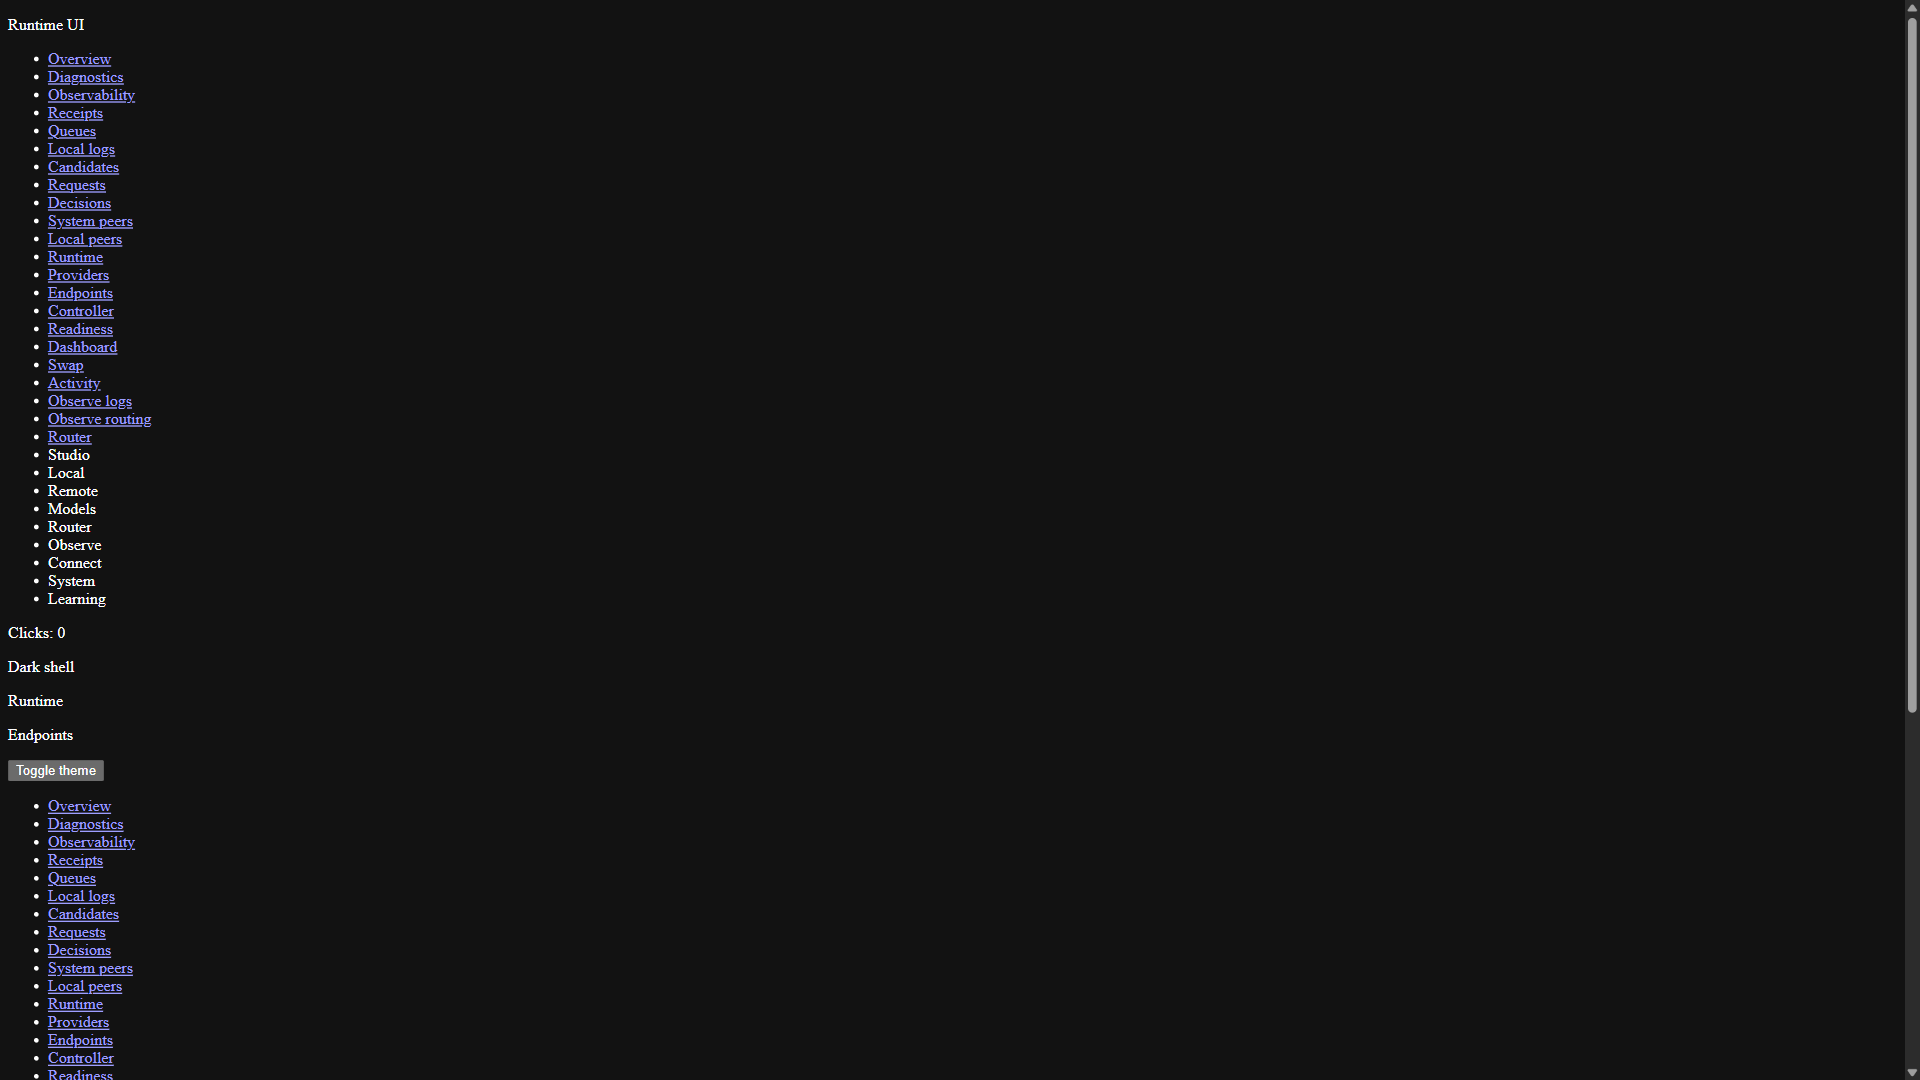
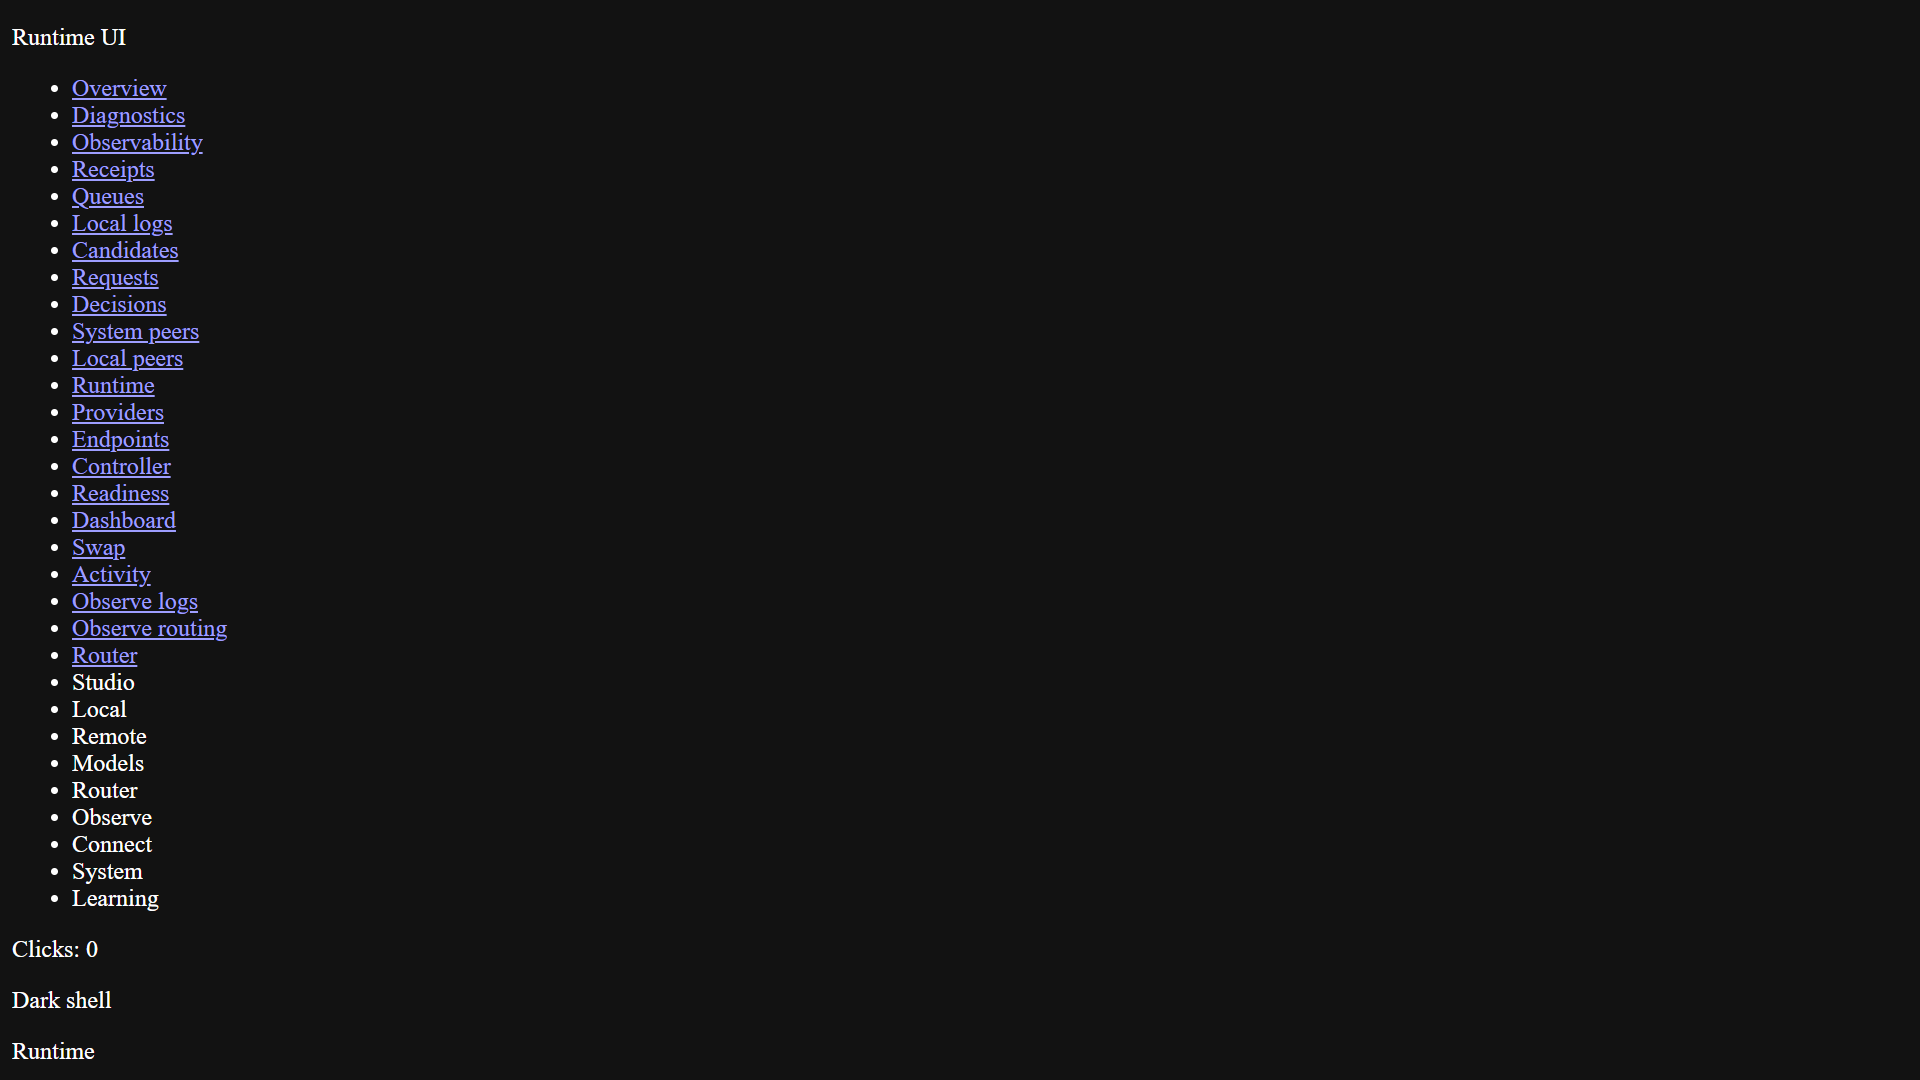
test(ui): complete the packaged visual pass with the three re-captured routes

Changed region(s): [[0.0, 0.0, 0.125, 1.0], [0.9688, 0.0, 1.0, 1.0]]

diff --git a/.recursive/run/115-effect-foldkit-runtime-migration/evidence/other/s33-packaged-visual.md b/.recursive/run/115-effect-foldkit-runtime-migration/evidence/other/s33-packaged-visual.md
@@ -24,9 +24,9 @@ Artifact: `E:/rm-tmp/s31a/release/win32-x64`, version `0.0.20-18-g6c9aeba1`, com
 | `/observe/routing` | Observe routing | RM3 Foldkit shell | empty | 0 |
 | `/router` | Router | RM3 Foldkit shell | ok | 0 |
 | `/nonexistent-route` | Not found: /nonexistent-route | RM3 Foldkit shell | error | 1 |
-| `/runtime` | Runtime | (captured) | 0 |
-| `/control/providers` | Providers | (captured) | 0 |
-| `/control/endpoints` | Endpoints | (captured) | 0 |
+| `/runtime` | Runtime | RM3 Foldkit shell | error | 1 |
+| `/control/providers` | Providers | RM3 Foldkit shell | ok | 0 |
+| `/control/endpoints` | Endpoints | RM3 Foldkit shell | ok | 0 |
 
 ## What this proves and what it does not
 
@@ -34,4 +34,4 @@ Artifact: `E:/rm-tmp/s31a/release/win32-x64`, version `0.0.20-18-g6c9aeba1`, com
 - The not-found route renders `Not found: /nonexistent-route` with an error state, so unknown paths are a real state, not a blank page.
 - Read routes that hit the host show `ok` or `empty` states from the packaged backend; the router page shows `ok`; observe-routing shows `empty`.
 - It does NOT prove pixel design quality: there is no design source to diff against, and no interaction script (clicks, keyboard, focus order) was run in this pass.
-- Three routes (`/runtime`, `/control/providers`, `/control/endpoints`) were captured before a browser-tool timeout interrupted the batch; their titles were observed and screenshots saved, but their state attributes were not re-recorded in this pass.
+- A browser-tool timeout interrupted one batch; the three routes it held were re-captured afterwards and are included above.
